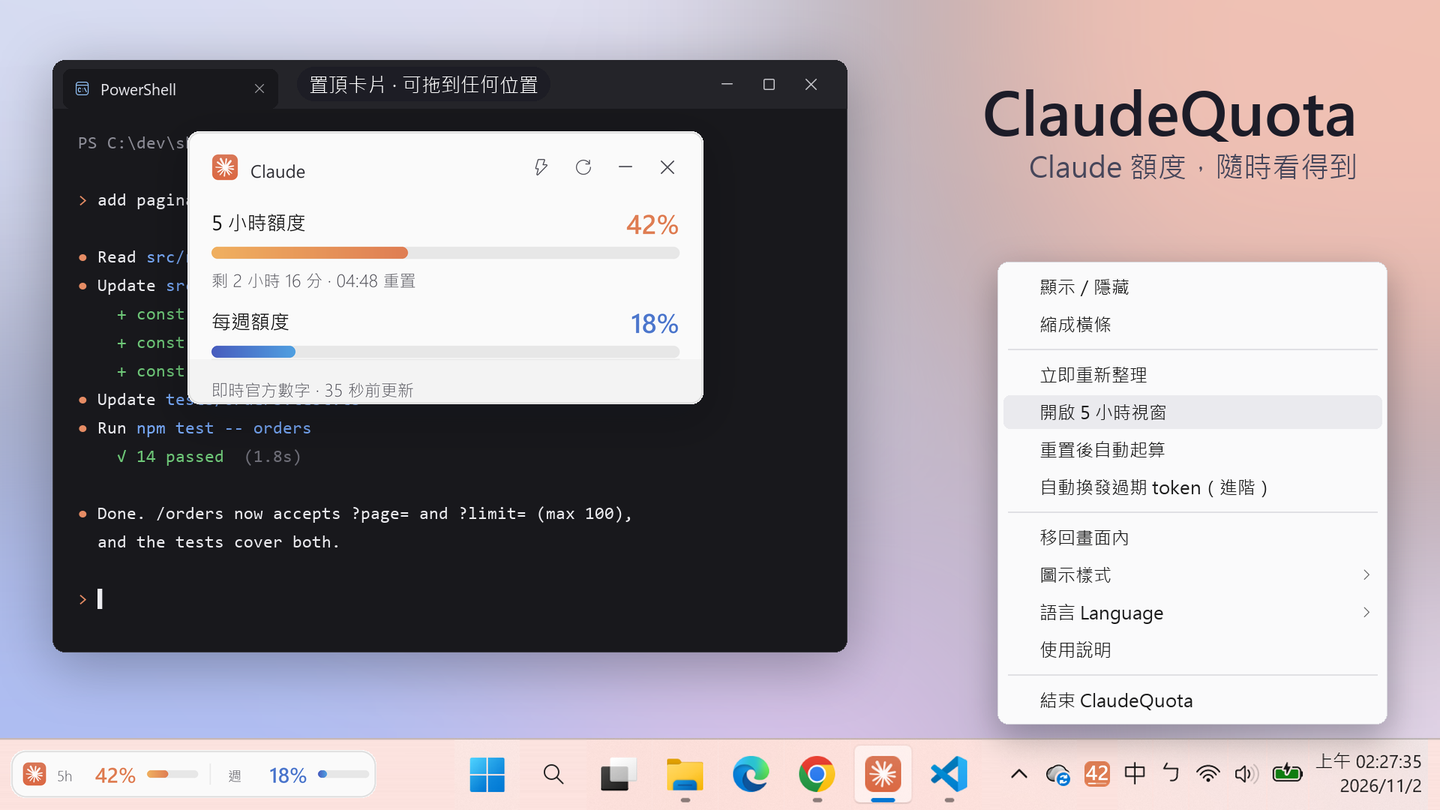
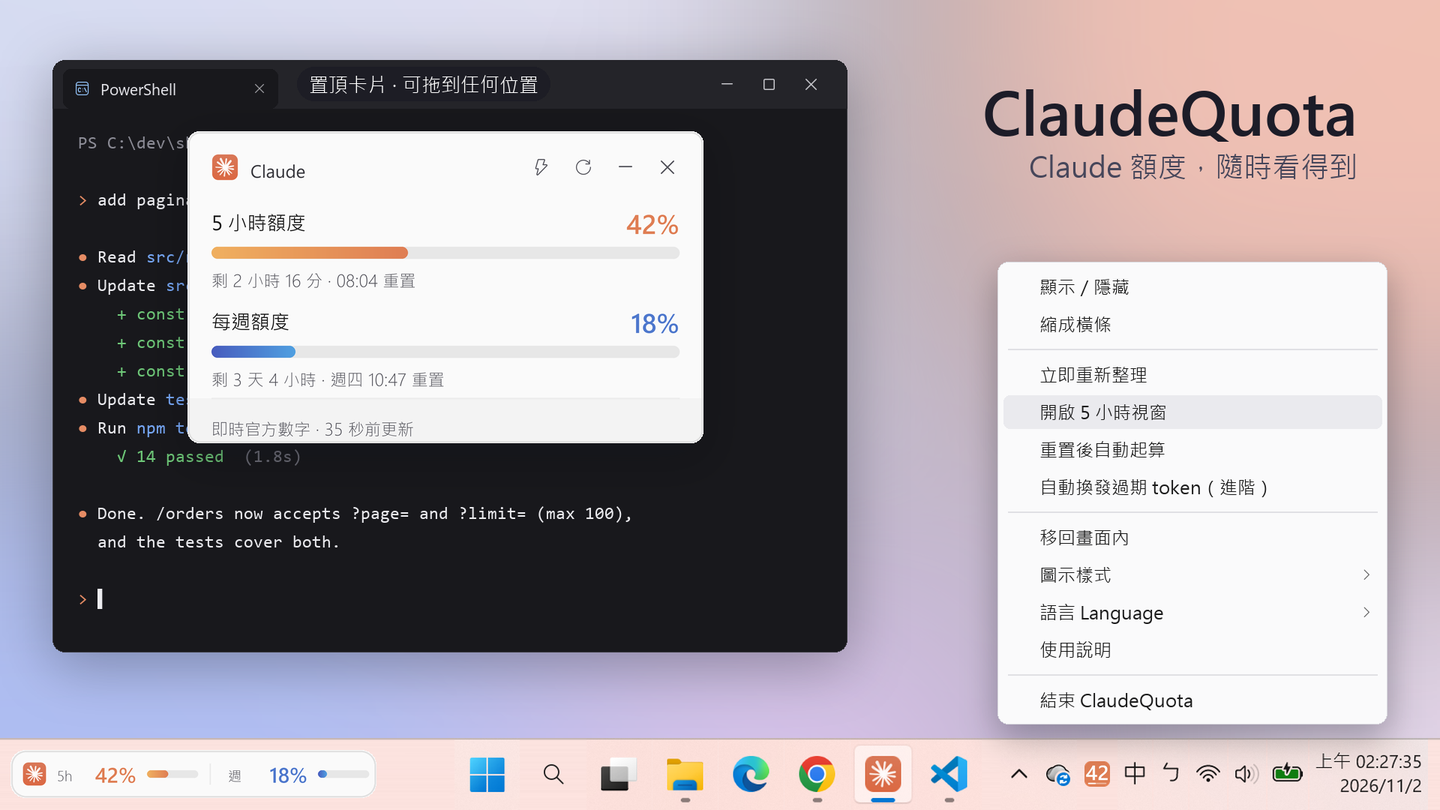
Show when the weekly limit resets

Changed region(s): [[0.125, 0.463, 0.5, 0.5556], [0.25, 0.3395, 0.2812, 0.3704]]

diff --git a/widget.py b/widget.py
@@ -501,6 +501,21 @@ def human_left(delta_min: float) -> str:
     return t("left.h", h=h) if h else t("left.m", m=m)
 
 
+def human_left_long(delta_min: float) -> str:
+    """每週額度用：一天以上就講「幾天幾小時」，分鐘在這個尺度沒意義。"""
+    if delta_min < 24 * 60:
+        return human_left(delta_min)
+    d, rest = divmod(int(delta_min), 24 * 60)
+    h = rest // 60
+    return t("left.dh", d=d, h=h) if h else t("left.d", d=d)
+
+
+def weekday_time(when: datetime) -> str:
+    """「週四 14:00」/「Thu 14:00」。星期名稱自己對照，不依賴系統 locale。"""
+    local = (when + timedelta(seconds=30)).astimezone()
+    return t("weekday_time", day=t("weekdays").split(",")[local.weekday()], time=f"{local:%H:%M}")
+
+
 # ──────────────────────── 手動開啟 5 小時視窗 ────────────────────────
 
 def promote_tray_icon() -> bool:
@@ -851,10 +866,10 @@ class Painter:
 class CardPainter(Painter):
     """把一張 Quota 畫成 Windows 通知樣式的卡片。"""
 
-    W, H = 344, 182
+    W, H = 344, 208
     PAD = 16
     RADIUS = 8      # Windows 11 通知的圓角就是小小的
-    FOOT_TOP = 152  # 頁尾淡底色帶從這裡開始
+    FOOT_TOP = 178  # 頁尾淡底色帶從這裡開始（每週那列下面還有一行重置時間）
 
     # ── 一列額度 ──
     def _row(self, y, label, pct, colors, accent, sub=None):
@@ -906,7 +921,11 @@ class CardPainter(Painter):
             self._row(52, t("card.five_hour"), q.percent_used,
                       grad_for(q.percent_used), accent_for(q.percent_used), sub1)
             if q.week_used is not None:
-                self._row(118, t("card.weekly"), q.week_used, GRAD_WEEK, WEEK_ACCENT)
+                sub2 = None
+                if q.week_resets_at:
+                    wleft = (q.week_resets_at - datetime.now(timezone.utc)).total_seconds() / 60
+                    sub2 = t("card.week_resets", left=human_left_long(wleft), time=weekday_time(q.week_resets_at))
+                self._row(118, t("card.weekly"), q.week_used, GRAD_WEEK, WEEK_ACCENT, sub2)
             if q.live:
                 # 更新節奏會自我收斂、也可能被限流，每次間隔都不同，
                 # 所以直接把「上次更新多久了」秒數寫出來
@@ -1174,9 +1193,11 @@ class FloatWindow:
     def _signature(self):
         """畫面上真正看得到的東西。沒變就不用重畫（重畫要 ~34ms）。"""
         q = self._last
-        left = None
+        left = wleft = None
         if q and q.resets_at:
             left = int((q.resets_at - datetime.now(timezone.utc)).total_seconds() // 60)
+        if q and q.week_resets_at:
+            wleft = int((q.week_resets_at - datetime.now(timezone.utc)).total_seconds() // 60)
         # 「N 秒前更新」每秒都會變，但只有卡片會顯示它，橫條不需要跟著重畫
         age = None
         if q is not None and q.live and self.SHOWS_AGE:
@@ -1186,7 +1207,7 @@ class FloatWindow:
         return (
             i18n.lang(), self._hot, self._note, age,
             None if q is None else (q.percent_used, q.week_used, q.resets_exact,
-                                    q.stale, q.live, left),
+                                    q.stale, q.live, left, wleft),
         )
 
     def redraw(self, force: bool = False):

diff --git a/i18n.py b/i18n.py
@@ -40,6 +40,11 @@ STRINGS: dict[str, dict[str, str]] = {
     "left.hm": {"zh": "剩 {h} 小時 {m} 分", "en": "{h}h {m}m left"},
     "left.h": {"zh": "剩 {h} 小時", "en": "{h}h left"},
     "left.m": {"zh": "剩 {m} 分", "en": "{m}m left"},
+    "left.dh": {"zh": "剩 {d} 天 {h} 小時", "en": "{d}d {h}h left"},
+    "left.d": {"zh": "剩 {d} 天", "en": "{d}d left"},
+    "card.week_resets": {"zh": "{left} · {time} 重置", "en": "{left} · resets {time}"},
+    "weekdays": {"zh": "週一,週二,週三,週四,週五,週六,週日", "en": "Mon,Tue,Wed,Thu,Fri,Sat,Sun"},
+    "weekday_time": {"zh": "{day} {time}", "en": "{day} {time}"},
 
     # ── 迷你橫條 ──
     "mini.week": {"zh": "週", "en": "wk"},

diff --git a/quota_source.py b/quota_source.py
@@ -670,6 +670,12 @@ def get_quota() -> Optional[Quota]:
     known = _known_reset()
     if known is not None and (d.resets_at is None or d.resets_at > known):
         d = replace(d, resets_at=known, resets_exact=True)
+    # 每週重置時刻桌面版快取裡沒有；API 說過的只要還沒到，整週都成立
+    with _api_lock:
+        _ts, api_q = _api_cache
+    if d.week_resets_at is None and api_q is not None and api_q.week_resets_at is not None \
+            and api_q.week_resets_at > datetime.now(timezone.utc):
+        d = replace(d, week_resets_at=api_q.week_resets_at)
     return d
 
 

diff --git a/README.md b/README.md
@@ -16,7 +16,7 @@ A small Windows tray app for Claude Pro / Max users. It shows the official usage
 ## Features
 
 - **Tray icon** with your 5-hour usage in 6 styles; hover for a summary
-- **Floating card** with both limits, progress bars and the exact reset time
+- **Floating card** with both limits, progress bars, and when each one resets (time left and the exact time, including the weekly reset day)
 - **Mini bar** you can dock on the taskbar, or hide everything and keep only the tray icon
 - **Put them anywhere**: drag the card and the mini bar wherever you like. Each remembers its own spot and reopens there next time
 - Stays put through Win+D and virtual desktop switches, and **gets out of the way of full-screen games and videos**
@@ -100,7 +100,7 @@ Interface idea inspired by [GlassQuota](https://github.com/chen10191200-hue/Glas
 ### 功能
 
 - 系統列圖示顯示 5 小時用量，有 6 種樣式可選；滑鼠停留可看摘要
-- 置頂卡片顯示兩個額度的用量、進度條與重置時間
+- 置頂卡片顯示兩個額度的用量、進度條，以及各自的重置時間（剩多久與確切時間，每週額度會標星期幾）
 - 卡片可縮成一條細橫條放在工作列上，或收起只留系統列圖示
 - **位置隨你放**：卡片和橫條都能拖到任何地方，各自記住位置，下次開啟會出現在同一個地方
 - 不受「顯示桌面」（Win+D）或切換虛擬桌面影響；全螢幕的遊戲或影片會自動讓開，結束後自己回來
